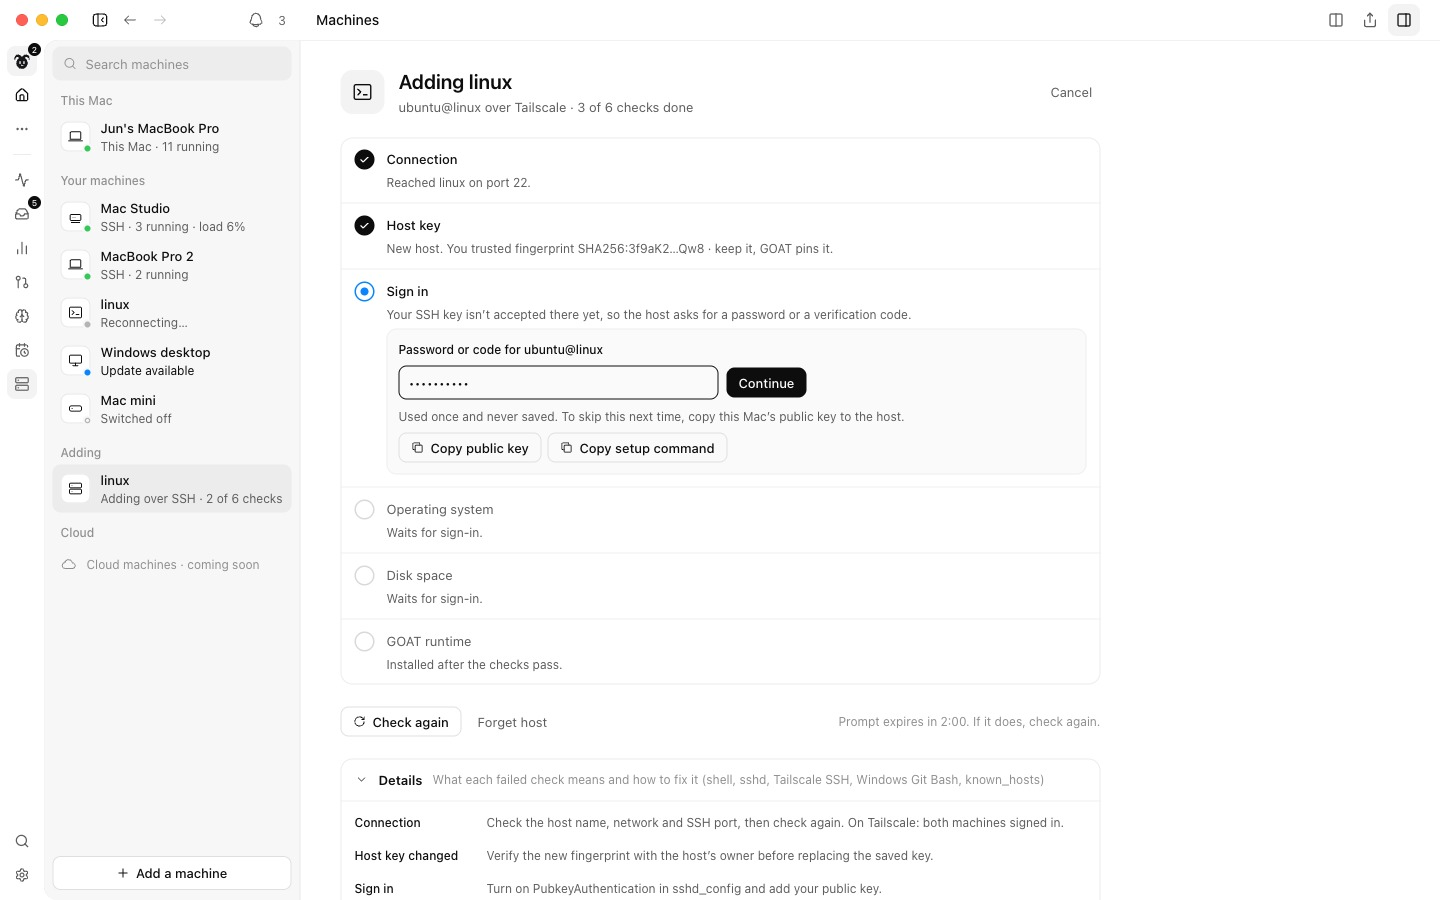
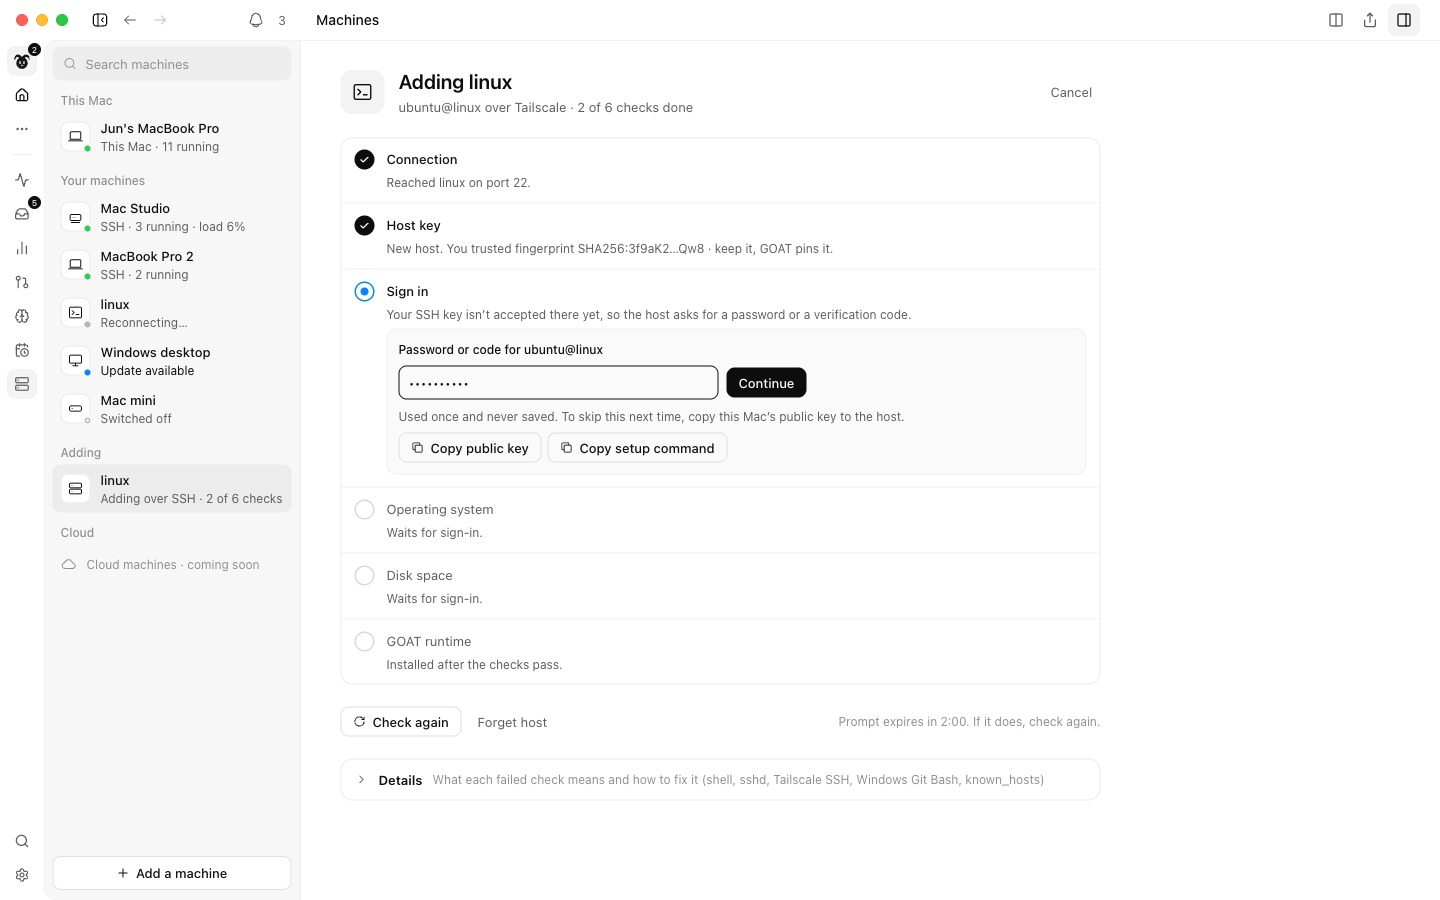
design: M4 Details collapsed (fits 900px), check count matches sidebar

Changed region(s): [[0.3438, 0.9022, 0.7188, 0.9956], [0.25, 0.9022, 0.3125, 0.9956], [0.4375, 0.0933, 0.4688, 0.1244]]

diff --git a/design/paper/part2/connections/1SHN-2.jsx b/design/paper/part2/connections/1SHN-2.jsx
@@ -385,7 +385,7 @@
                       </div>
                       <div style={{ alignItems: 'center', boxSizing: 'border-box', display: 'flex', gap: '6px' }}>
                         <div style={{ boxSizing: 'border-box', color: '#5D5D5D', fontFamily: '"SF Pro", system-ui, sans-serif', fontSize: '13px', lineHeight: '18px' }}>
-                          ubuntu@linux over Tailscale · 3 of 6 checks done
+                          ubuntu@linux over Tailscale · 2 of 6 checks done
                         </div>
                       </div>
                     </div>
@@ -547,7 +547,7 @@
                   </div>
                   <div style={{ borderRadius: '12px', boxShadow: '#ECECEC 0px 0px 0px 1px inset', boxSizing: 'border-box', display: 'flex', flexDirection: 'column' }}>
                     <div style={{ alignItems: 'center', boxSizing: 'border-box', display: 'flex', gap: '10px', paddingBlock: '12px', paddingInline: '14px' }}>
-                      <svg width="14" height="14" viewBox="0 0 24 24" xmlns="http://www.w3.org/2000/svg" style={{ flexShrink: '0', display: 'inline-block' }}>
+                      <svg width="14" height="14" viewBox="0 0 24 24" xmlns="http://www.w3.org/2000/svg" style={{ flexShrink: '0', display: 'inline-block', rotate: '-90deg', transformOrigin: '50% 50%' }}>
                         <g>
                           <path d="m6 9 6 6 6-6" fill="none" stroke="#5D5D5D" strokeWidth="1.5" strokeLinecap="round" strokeLinejoin="round" />
                         </g>
@@ -557,42 +557,6 @@
                       </div>
                       <div style={{ boxSizing: 'border-box', color: '#8F8F8F', flexBasis: '0%', flexGrow: '1', fontFamily: '"SF Pro", system-ui, sans-serif', fontSize: '12px', lineHeight: '16px' }}>
                         What each failed check means and how to fix it (shell, sshd, Tailscale SSH, Windows Git Bash, known_hosts)
-                      </div>
-                    </div>
-                    <div style={{ borderTopColor: '#F0F0F0', borderTopStyle: 'solid', borderTopWidth: '1px', boxSizing: 'border-box' }}>
-                      <div style={{ boxSizing: 'border-box', display: 'flex', flexDirection: 'column', paddingBlock: '4px' }}>
-                        <div style={{ boxSizing: 'border-box', display: 'flex', gap: '12px', paddingBlock: '8px', paddingInline: '14px' }}>
-                          <div style={{ boxSizing: 'border-box', color: '#0D0D0D', flexShrink: '0', fontFamily: '"SF Pro", system-ui, sans-serif', fontSize: '12px', fontVariationSettings: '"wght" 500', fontWeight: 500, lineHeight: '17px', width: '120px' }}>
-                            Connection
-                          </div>
-                          <div style={{ boxSizing: 'border-box', color: '#5D5D5D', fontFamily: '"SF Pro", system-ui, sans-serif', fontSize: '12px', lineHeight: '17px' }}>
-                            Check the host name, network and SSH port, then check again. On Tailscale: both machines signed in.
-                          </div>
-                        </div>
-                        <div style={{ boxSizing: 'border-box', display: 'flex', gap: '12px', paddingBlock: '8px', paddingInline: '14px' }}>
-                          <div style={{ boxSizing: 'border-box', color: '#0D0D0D', flexShrink: '0', fontFamily: '"SF Pro", system-ui, sans-serif', fontSize: '12px', fontVariationSettings: '"wght" 500', fontWeight: 500, lineHeight: '17px', width: '120px' }}>
-                            Host key changed
-                          </div>
-                          <div style={{ boxSizing: 'border-box', color: '#5D5D5D', fontFamily: '"SF Pro", system-ui, sans-serif', fontSize: '12px', lineHeight: '17px' }}>
-                            Verify the new fingerprint with the host’s owner before replacing the saved key.
-                          </div>
-                        </div>
-                        <div style={{ boxSizing: 'border-box', display: 'flex', gap: '12px', paddingBlock: '8px', paddingInline: '14px' }}>
-                          <div style={{ boxSizing: 'border-box', color: '#0D0D0D', flexShrink: '0', fontFamily: '"SF Pro", system-ui, sans-serif', fontSize: '12px', fontVariationSettings: '"wght" 500', fontWeight: 500, lineHeight: '17px', width: '120px' }}>
-                            Sign in
-                          </div>
-                          <div style={{ boxSizing: 'border-box', color: '#5D5D5D', fontFamily: '"SF Pro", system-ui, sans-serif', fontSize: '12px', lineHeight: '17px' }}>
-                            Turn on PubkeyAuthentication in sshd_config and add your public key.
-                          </div>
-                        </div>
-                        <div style={{ boxSizing: 'border-box', display: 'flex', gap: '12px', paddingBlock: '8px', paddingInline: '14px' }}>
-                          <div style={{ boxSizing: 'border-box', color: '#0D0D0D', flexShrink: '0', fontFamily: '"SF Pro", system-ui, sans-serif', fontSize: '12px', fontVariationSettings: '"wght" 500', fontWeight: 500, lineHeight: '17px', width: '120px' }}>
-                            Operating system
-                          </div>
-                          <div style={{ boxSizing: 'border-box', color: '#5D5D5D', fontFamily: '"SF Pro", system-ui, sans-serif', fontSize: '12px', lineHeight: '17px' }}>
-                            SSH needs a POSIX shell. On Windows: install Git for Windows and set OpenSSH’s shell to its bash.
-                          </div>
-                        </div>
                       </div>
                     </div>
                   </div>
